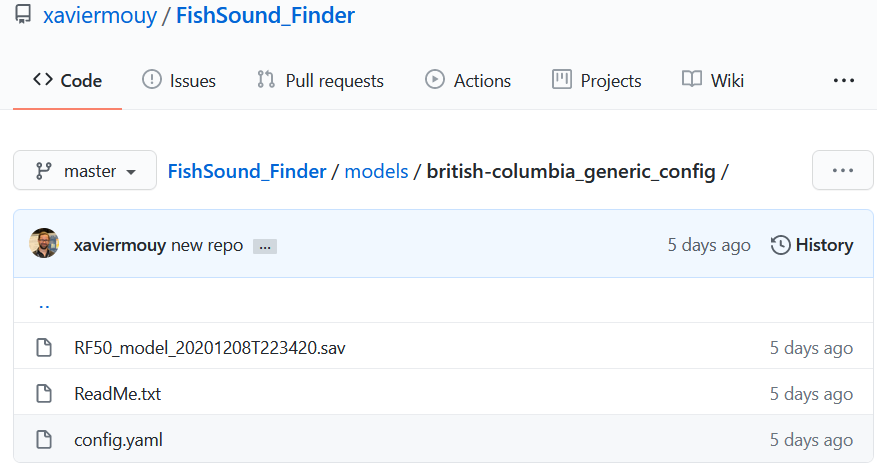
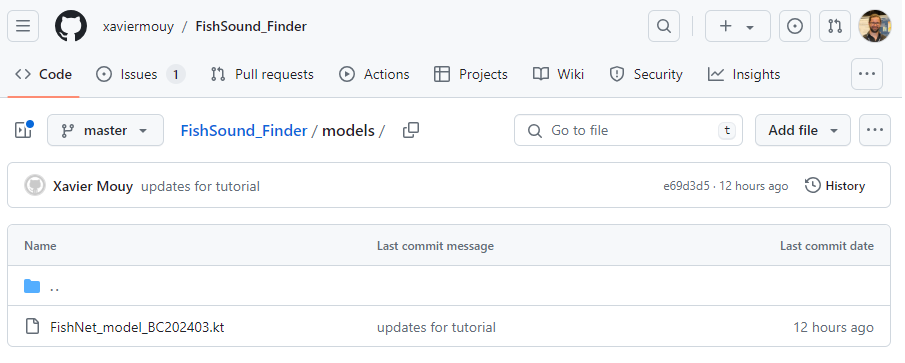
doc updates

diff --git a/docs/source/example.rst b/docs/source/example.rst
@@ -3,7 +3,7 @@
 Tutorial
 ========
 
-This tutorial goes through all the steps required to set up a project, run FishSound Finder and visualize the detections results in Raven and PAMlab.
+This tutorial goes through all the steps required to set up a project, run FishSound Finder and visualize the detections results in Raven.
 
 Setting up the project structure
 --------------------------------
@@ -18,29 +18,28 @@ The project folder should look like this:
 
 
 
-Downloading the model and configuration file
+Downloading the model file
 --------------------------------------------
 
-In this example we will run the generic fish detector for British-Columbia. The configuration file and classification model are located on 
-FishSound Finder's GitHub page under the `british-columbia_generic_config <https://github.com/xaviermouy/FishSound_Finder/tree/master/models/british-columbia_generic_config>`_ directory.
+In this example we will run the generic fish sound detector. The classification model is located on 
+FishSound Finder's GitHub page under the `models <https://github.com/xaviermouy/FishSound_Finder/tree/master/models>`_ directory.
 
 .. image:: _static/github_models.png
    :scale: 70 %
  
-* Download the classification model `RF50_model_20201208T223420.sav <https://raw.githubusercontent.com/xaviermouy/FishSound_Finder/master/models/british-columbia_generic_config/RF50_model_20201208T223420.sav>`_ from GitHub.
-* Download the configuration file `config.yaml <https://raw.githubusercontent.com/xaviermouy/FishSound_Finder/master/models/british-columbia_generic_config/config.yaml>`_ from GitHub..
-* Place both files in your *model* folder.
+* Download the classification model `FishNet_model_BC202403.kt <https://github.com/xaviermouy/FishSound_Finder/raw/master/models/FishNet_model_BC202403.kt>`_ from GitHub.
+* Place the .kt file in your *model* folder.
 
 
 Downloading audio data
 ----------------------
 
-For this tutorial we will use a single wav file located in the *example* directory of `FishSound Finder's GitHub page <https://github.com/xaviermouy/FishSound_Finder/tree/master/example>`_. 
-This audio file was collected off Vancouver Island by a SoundTrap recorder set with a sampling rate of 48 kHz. The original file was 30-minute long, but
-was trimmed down to 1 minute for this tutorial. Note that FishSound Finder can interpret timestamp information from the name of the audio files.
-It currently supports timestamp formats from the SoundTrap and AMAR audio recorders. 
+For this tutorial we will use a single wav file located in the *data* directory of `FishSound Finder's GitHub page <https://github.com/xaviermouy/FishSound_Finder/tree/master/data>`_. 
+This audio file was collected off Vancouver Island by an AMAR recorder set with a sampling rate of 32 kHz. The original file was 30-minute long, but
+was trimmed down for this tutorial. Note that FishSound Finder can interpret timestamp information from the name of the audio files.
+It currently supports timestamp formats from most popular acoustic recorders including SoundTrap and AMAR. 
 
-* Download the audio file `67674121.181017060806.wav <https://github.com/xaviermouy/FishSound_Finder/raw/master/example/67674121.181017060806.wav>`_ from GitHub.
+* Download the audio file `AMAR173.4.20190920T004248Z.wav <https://github.com/xaviermouy/FishSound_Finder/raw/master/data/AMAR173.4.20190920T004248Z.wav>`_ from GitHub.
 * Place it in your *data* folder.
 
 Creating a deployment file
@@ -48,9 +47,9 @@ Creating a deployment file
 
 Creating a deployment file is not necessary but highly recommended. It allows FishSound Finder to embed metadata into the detection results, which
 makes the post-processing of detection results from multiple recorders much easier. Notice that metadata are included in the NetCDF files generated by FishSound Finder, but
-not in the Raven or PAMlab files.
+not in the Raven files.
 
-* Download a deployment file template `deployment_info.csv <https://raw.githubusercontent.com/xaviermouy/FishSound_Finder/master/example/deployment_info.csv>`_ from GitHub.
+* Download a deployment file template `deployment_info.csv <https://github.com/xaviermouy/FishSound_Finder/blob/master/data/deployment_info.csv>`_ from GitHub.
 * Place it in your *data* folder.
 * Open the deployment_info.csv file with a text editor (e.g. NotePad++) and edit the fields as necessary.
 
@@ -101,8 +100,8 @@ Now all the data and configuration files are set up and we can run FishSound Fin
 * Start FishSound Finder to process the audio files that are in the *data* folder. 
 
   .. code-block:: console
-  
-     $ fishsound_finder ".\data" ".\results" ".\model\config.yaml" ".\model\RF50_model_20201208T223420.sav" -d".\data\deployment_info.csv" -e".wav" -f -r -p
+       
+	 $ fishsound_finder --audio_folder=".\data"  --output_folder=".\results" --model_file=".\models\FishNet_model_BC202403.kt" --threshold=0.995 --deployment_file=".\data\deployment_info.csv" 
 
 
 * **Alternative**: If you don't want to type the input arguments every time, you can also create a text file with all the input arguments (one per line)
@@ -113,47 +112,39 @@ Now all the data and configuration files are set up and we can run FishSound Fin
   
   .. code-block:: console
   
-     .\data
-     .\results 
-     .\model\config.yaml 
-     .\model\RF50_model_20201208T223420.sav 
-     -d.\data\deployment_info.csv 
-     -e.wav 
-     -f 
-     -r 
-     -p 
+     --audio_folder=".\data"
+     --output_folder=".\results" 
+     --model_file=".\models\FishNet_model_BC202403.kt" 
+     --threshold=0.996 
+     --deployment_file=".\data\deployment_info.csv" 
   
   Now running FishSound Finder using *args_file.txt*.
     
   .. code-block:: console
   
-     $ fishsound_finder @args_file.txt
+     $ fishsound_finder @.\results\args_file.txt
 
 
 * The console should now display the files being processed and the processing steps in progress.
 
   .. code-block:: console
   
-     1/1: .\data\67674121.181017060806.wav
-     Spectrogram
-     Warning: FFT size automatically adjusted to 4096 samples (original size: 4094 )
-     Denoise
-     Detector
-     Measurements
-     Classification
-     Deleted observations (due to NaNs): 0
-     Saving
-     Executed in 15.3466 seconds
-     All files processed in 15.3476 seconds
+     Namespace(audio_folder='.\data', output_folder='.\results', model='.\model\\FishNet_model_BC202403.kt', threshold=0.996, channel=1, extension='.wav', batch_size=512, step_sec=0.05, smooth_sec=0, min_dur_sec=None, max_dur_sec=None, class_id=1, tmp_dir=None, deployment_file=".\data\deployment_info.csv", deployment_id=None, recursive=False)
+	 
+     1/1: .\data\AMAR173.4.20190920T004248Z.wav
+     571 detections
+     Executed in 58.9825 seconds
+     All files processed in 58.9825 seconds
+
 
 * Once FishSound Finder has finished running, all the detection results are written in the *results* folder. In this case,
-  it created the default netCDF4 file (*67674121.181017060806.wav.nc*), a Raven file (*67674121.181017060806.wav.chan1.Table.1.selections.txt*)
-  and a PAMlab file (*67674121.181017060806.wav annotations.log*).  
+  it created the default netCDF4 file (*AMAR173.4.20190920T004248Z.wav.nc*) and a Raven file (*AMAR173.4.20190920T004248Z.wav.chan1.Table.1.selections.txt*), and a SQLite file (*detections_20240326231319.sqlite*). 
+  The SQLite file is a SQL database that regroups the detection results from all files that have been processed. It can be opened using with a software like SQLiteStudio.
   
   .. image:: _static/results.png
      :scale: 70 %
    
-  Here we only used a single audio file, but note that FishSound Finder will process all audio files located in the data folder.
+  Here we only used a single audio file, but note that FishSound Finder will process all audio files located in the data folder. Also note that if the processing is interupted, you can rerun FishSOund Finder uisng the same arguments and it will start the processing where it left off (i.e. without reprocessing the files already analized).
    
 
 Reviewing the processing logs
@@ -169,37 +160,20 @@ Two log files are automatically created in the *results* folder:
 Analyzing the detection results
 -------------------------------
 
-Detection results from FishSound Finder can be analyzed using the bioacoustics software Raven, PAMlab, or
-libraries such as the ecosound. With the example of the fish detector from British-Columbia, all detections are 
-saved in the output files and are labelled either **FS**, for a fish sound, or **NN**, for noise. Each detections has
+Detection results from FishSound Finder can be analyzed using the bioacoustics software Raven or
+libraries such as the ecosound. With the example of the generic fish detector all detections are 
+saved in the output files and are labelled as **FS** (for a Fish Sound). Each detections has
 a classification confidence value (comprised between 0 and 1) which can be used to make the detector more or less sensitive
 depending on the application.
 
-With PAMlab
-***********
 
-To visualize the detection results in PAMlab:
-
-* Create a subfolder called *annotations* in the *data* folder
-* Copy the file *67674121.181017060806.wav annotations.log* in the *annotations* folder.
-* Open the audio file in PAMlab.
-* Detection boxes should automatically appear (FS: fish sounds, NN: noise).
-
-
-.. image:: _static/pamlab_no_detections.png
-   :scale: 70 %
-   
-.. image:: _static/pamlab_with_detections.png
-   :scale: 70 %
-   
-   
 With Raven
 **********
 
 To visualize the detection results in Raven:
 
 * Open the audio file in Raven
-* In the **File** menu, select "**Open Sound Selection Table...**", then select the file *67674121.181017060806.wav.chan1.Table.1.selections.txt*
+* In the **File** menu, select "**Open Sound Selection Table...**", then select the file *AMAR173.4.20190920T004248Z.wav.chan1.Table.1.selections.txt*
   from the *results* folder.
 * Detection boxes should automatically appear. Notice the confidence value in the selection table. 
 
@@ -207,12 +181,12 @@ To visualize the detection results in Raven:
    :scale: 70 %
 
 
-With ecosound
+With ecosound (documentation in progress)
 *************
 
 Here are some code snippets that can be used to analyze the detection results with ecosound. While ecosound can import
-data from Raven and PAMlab tables, it is typically better to import the netCDF4 file, as it contains all the metadata
-and measurements for each detections.
+data from Raven, it is typically better to import the netCDF4 file, as it contains all the metadata
+for each detections.
 
 Example 1: Display a summary of the detections
 ______________________________________________
@@ -220,82 +194,9 @@ ______________________________________________
    .. code-block:: python
    
       from ecosound.core.measurement import Measurement
-      detection_file = r".\results\67674121.181017060806.wav.nc"
+      detection_file = r".\results\AMAR173.4.20190920T004248Z.wav.nc"
       detec = Measurement()
       detec.from_netcdf(detection_file)
       detec.summary()
    
-   Resulting summary table:
    
-   .. code-block:: python  
-
-      label_class        FS  NN  Total
-      deployment_ID                   
-      SI-RCAIn-20190410  22  50     72
-      Total              22  50     72
-
-   
-Example 2: Display detections on top the spectrogram and waveform
-_________________________________________________________________
-   
-   .. code-block:: python
-      
-      from ecosound.core.measurement import Measurement
-      from ecosound.core.audiotools import Sound
-      from ecosound.core.spectrogram import Spectrogram
-      from ecosound.visualization.grapher_builder import GrapherFactory
-
-      # load detections
-      detection_file = r".\results\67674121.181017060806.wav.nc"
-      detec = Measurement()
-      detec.from_netcdf(detection_file)
-
-      # load audio file (first 15 sec only)
-      audio_file = r".\data\67674121.181017060806.wav"
-      sound = Sound(audio_file)
-      sound.read(channel=0, chunk=[0, 15], unit='sec', detrend=True)
-
-      # Calculate spectrogram
-      frame = 3000
-      nfft = 4096
-      step = 500
-      window_type = 'hann'
-      spectro = Spectrogram(frame, window_type, nfft, step, sound.waveform_sampling_frequency, unit='samp')
-      spectro.compute(sound, dB=True)
-
-      # Generate plot with waveform and spectrogram
-      graph = GrapherFactory('SoundPlotter', title='Recording', frequency_max=1000)
-      graph.add_data(sound) # add waveform data
-      graph.add_data(spectro) # add spectrogram
-      graph.add_annotation(detec, panel=0, color='green', label='Detections') # overlay detections on waveform plot
-      graph.add_annotation(detec, panel=1, color='green', label='Detections') # overlay detections on spectrogram plot
-      graph.colormap = 'binary'
-      graph.show()
-
- 
-   Resulting graph:
-
-   .. image:: _static/ecosound_sepctrogram.png
-      :scale: 70 %
-
-Example 3: Visualize the distribution of the detections' peak frequency
-_______________________________________________________________________
-   
-   .. code-block:: python
-   
-      from ecosound.core.measurement import Measurement
-      import seaborn as sns
-	  
-      # load detections
-      detection_file = r".\results\67674121.181017060806.wav.nc"
-      detec = Measurement()
-      detec.from_netcdf(detection_file)
-	  
-      # create violin plot
-      fig = sns.violinplot(y=detec.data['label_class'], x=detec.data['freq_peak'])
-      fig.set(xlabel='Detections peak frequency (Hz)', ylabel='Detections class')
-	  
-   Resulting graph:
-   
-   .. image:: _static/violin_graph.png
-      :scale: 90 %

diff --git a/docs/source/usage.rst b/docs/source/usage.rst
@@ -40,9 +40,6 @@ The command below runs FishSound Finder on the .wav files located in the .\data 
 
 .. code-block:: console
 
-   $ fishsound_finder --audio_folder=".\data"  --output_folder=".\results" --model_file=".\models\FishNet_model_BC202403.kt" --deployment_file=".\data\deployment_info.csv" 
-
-
-It is also possible to have all the input arguments in a separate text file and run FishSound Finder using the @ command.
+   $ fishsound_finder --audio_folder=".\data"  --output_folder=".\results" --model_file=".\models\FishNet_model_BC202403.kt" --threshold=0.995 --deployment_file=".\data\deployment_info.csv" 
 
 For a more detailed example, see the :ref:`Tutorial<tutorial>` section.
